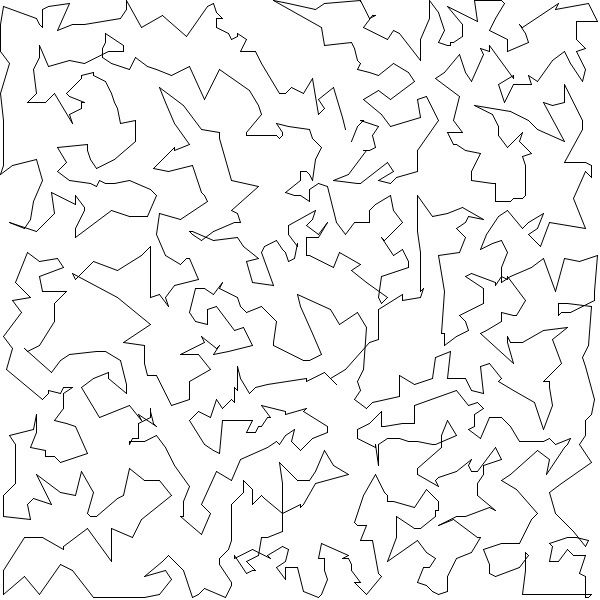
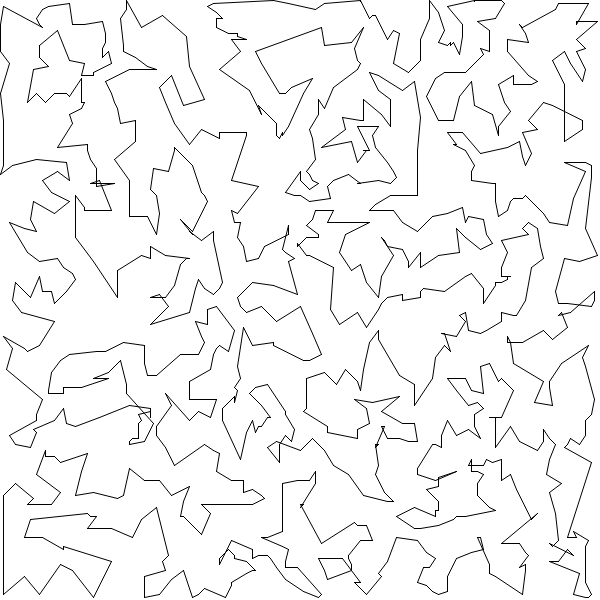
Optimize performance x10 (5749)

diff --git a/src/main.rs b/src/main.rs
@@ -11,85 +11,83 @@ use itertools::Itertools;
 use plotters::prelude::*;
 use std::time::{Duration, Instant};
 use ndarray::{Array, Array2};
+use plotters::style::RGBAColor;
 
 type Point = (i32, i32);
-type Distance = Array2<u32>;
+type P = u16;
 
+const N: P = 1000;
 
-#[derive(Debug, Clone)]
-struct Route {
-    visits: Vec<u16>,
-    length: u32,
-}
+fn annealing(solution: &mut Vec<P>, costMatrix: Array2<u32>) -> u32 {
+    let mut rng = rand_chacha::ChaCha8Rng::seed_from_u64(10);
+    // local u16 pointers
 
-impl Route {
-    fn new(visits: Vec<u16>, d: &Array2<u32>) -> Self {
-        Route {
-            length: visits.iter().tuple_windows::<(&u16, &u16)>()
-                .map(|(a, b)| d[(*a as usize, *b as usize)]).sum::<u32>() + d[(visits.len() - 1, 0)],
-            visits,
+    let cost = |a: P, b: P| {costMatrix[(a as usize, b as usize)]};
+    let mut solutionCost = solution.iter()
+        .tuple_windows::<(&P, &P)>()
+        .map(|(a, b)| cost(*a, *b)).sum::<u32>();
+
+    for i in 0..2000000 {
+        let a = rng.gen_range(1, N);
+        let b = rng.gen_range(1, N);
+        let (a, b) = match a.cmp(&b) {
+            Ordering::Less => { (a, b) }
+            Ordering::Greater => { (b, a) }
+            Ordering::Equal => { continue; }
+        };
+
+        let estimate = |a: P, b: P| {
+            let az = solution[a as usize];
+            let am = solution[a as usize - 1];
+            let bz = solution[b as usize];
+            let bp = solution[b as usize + 1];
+            (cost(am, az) + cost(bz, bp),
+             cost(am, bz) + cost(az, bp))
+        };
+
+        let e = estimate(a, b);
+
+        if e.1 <= e.0 + 1 {
+            solution[a as usize..=b as usize].reverse();
+            solutionCost -= e.0;
+            solutionCost += e.1;
         }
     }
 
-    fn opt2(&mut self, d: &Array2<u32>, from: u16, to: u16) {
-        let (f, t) = match from.cmp(&to) {
-            Ordering::Less => { (from, to) }
-            Ordering::Greater => { (to, from) }
-            Ordering::Equal => { return; }
-        };
-        if t - f + 2 >= self.visits.len() as u16 { return; }
-        self.visits[f as usize..=t as usize].reverse();
-        let bf = self.visits[if f > 0 { f - 1 } else { self.visits.len() as u16 - 1 } as usize] as usize;
-        let at = self.visits[if t as usize + 1 < self.visits.len() { t + 1 } else { 0 } as usize] as usize;
-        let xf = self.visits[f as usize] as usize;
-        let xt = self.visits[t as usize] as usize;
-        self.length = self.length - d[(bf, xt)] - d[(xf, at)] + d[(bf, xf)] + d[(xt, at)];
-    }
-
-    fn draw(&self, points: Vec<Point>) {
-        let root = BitMapBackend::new("plot.png", (600, 600))
-            .into_drawing_area()
-            .apply_coord_spec(RangedCoord::<RangedCoordi32, RangedCoordi32>::new(-100..100, -100..100, (0..600, 0..600)));
-        root.fill(&WHITE);
-        root.draw(
-            &Path::new(self.visits.iter()
-                           .map(|i| points[*i as usize]).collect::<Vec<Point>>(), &BLACK)
-        );
-    }
+    solutionCost
 }
+
+fn draw(visits: &Vec<u16>, points: Vec<Point>) {
+    let root = BitMapBackend::new("plot.png", (600, 600))
+        .into_drawing_area()
+        .apply_coord_spec(RangedCoord::<RangedCoordi32, RangedCoordi32>::new(-100..100, -100..100, (0..600, 0..600)));
+    root.fill(&WHITE);
+    root.draw(
+        &Path::new(visits.iter()
+                       .map(|i| points[*i as usize]).collect::<Vec<Point>>(), &BLACK)
+    );
+}
+
 
 fn main() {
     let start = Instant::now();
     let mut rng = rand_chacha::ChaCha8Rng::seed_from_u64(10);
 
-    let n = 1000_u16;
-    let points: Vec<Point> = (0..n).map(|_| (rng.gen_range(-100, 100), rng.gen_range(-100, 100)))
+    let points: Vec<Point> = (0..N).map(|_| (rng.gen_range(-100, 100), rng.gen_range(-100, 100)))
         .collect();
 
     let ds: Array2<u32> = Array2::from_shape_fn(
-        (n as usize, n as usize),
+        (N as usize, N as usize),
         |(a, b)| ((points[a as usize].0 - points[b as usize].0) as f64)
             .hypot((points[a as usize].1 - points[b as usize].1) as f64)
             .ceil() as u32);
 
-    let mut best = Route::new((0..n).collect(), &ds);
-    let mut current = best.clone();
+    let mut solution: Vec<P> = (0..N).collect();
+    solution.push(0);
 
-    for i in 0..2000000 {
-        let from = rng.gen_range(0, n);
-        let to = rng.gen_range(0, n);
-        if from == to { continue; }
+    let solutionCost = annealing(&mut solution, ds);
 
-        current.opt2(&ds, from, to);
-
-        if current.length <= best.length + 1 {
-            best = current.clone();
-        } else {
-            current = best.clone();
-        }
-    }
-
-    println!("{:?} {:?}", start.elapsed(), best.length);
-    best.draw(points);
+    println!("{:?} {:?}", start.elapsed(), solutionCost);
+    draw(&solution, points);
 }
 

diff --git a/src/lib.rs b/src/lib.rs
@@ -1,0 +1,66 @@
+/*extern crate ndarray;
+
+use ndarray::Array2;
+
+type VisitId = u16;
+type ChainId = u16;
+
+struct Cost(Array2<u32>);
+
+impl Fn<> for Cost {
+    fn get(&self, i: (VisitId, VisitId)) -> u32 {
+        self.0[(a as usize, b as usize)]
+    }
+}
+
+type Route = Vec<VisitId>;
+
+fn estimate_swap(route: &Route, cost: Cost, a: usize, b: usize) -> (u32, u32) {
+    let az = route[a] as usize;
+    let am = route[a - 1] as usize;
+    let ap = route[a + 1] as usize;
+    let bz = route[b] as usize;
+    let bm = route[b - 1] as usize;
+    let bp = route[b + 1] as usize;
+    (cost[(am, az)] + cost[(az, ap)] + cost[(bm, bz)] + cost[(bz, bp)],
+     cost[(am, bz)] + cost[(bz, ap)] + cost[(bm, az)] + cost[(az, bp)])
+}
+
+fn estimate_remove_insert(route: &Route, cost: Cost, a: usize, b: usize) -> (u32, u32) {
+    let az = route[a] as usize;
+    let am = route[a - 1] as usize;
+    let ap = route[a + 1] as usize;
+    let bz = route[b] as usize;
+    let bm = route[b - 1] as usize;
+    (cost[(am, az)] + cost[(az, ap)] + cost[(bm, bz)],
+     cost[(bm, az)] + cost[(az, bz)] + cost[(am, ap)])
+}
+
+fn estimate_reverse(route: &Route, cost: Cost, a: usize, b: usize) -> (u32, u32) {
+    let az = route[a] as usize;
+    let am = route[a - 1] as usize;
+    let bz = route[b] as usize;
+    let bp = route[b + 1] as usize;
+    (cost[(am, az)] + cost[(bz, bp)],
+     cost[(am, bz)] + cost[(az, bp)])
+}
+
+fn remove_insert(route: &mut Route, a: usize, b: usize) {
+    let t = route[a];
+    if a < b {
+        route.copy_within(a + 1..=b, a);
+    } else {
+        route.copy_within(b..a, b + 1);
+    }
+    route[b] = t;
+}
+
+fn reverse(route: &mut Route, a: usize, b: usize) {
+    route[a..=b].reverse();
+}
+
+// fn swap(&mut self, a: usize, b: usize)
+
+//fn scramble() {}
+//fn pfih() {}
+*/
